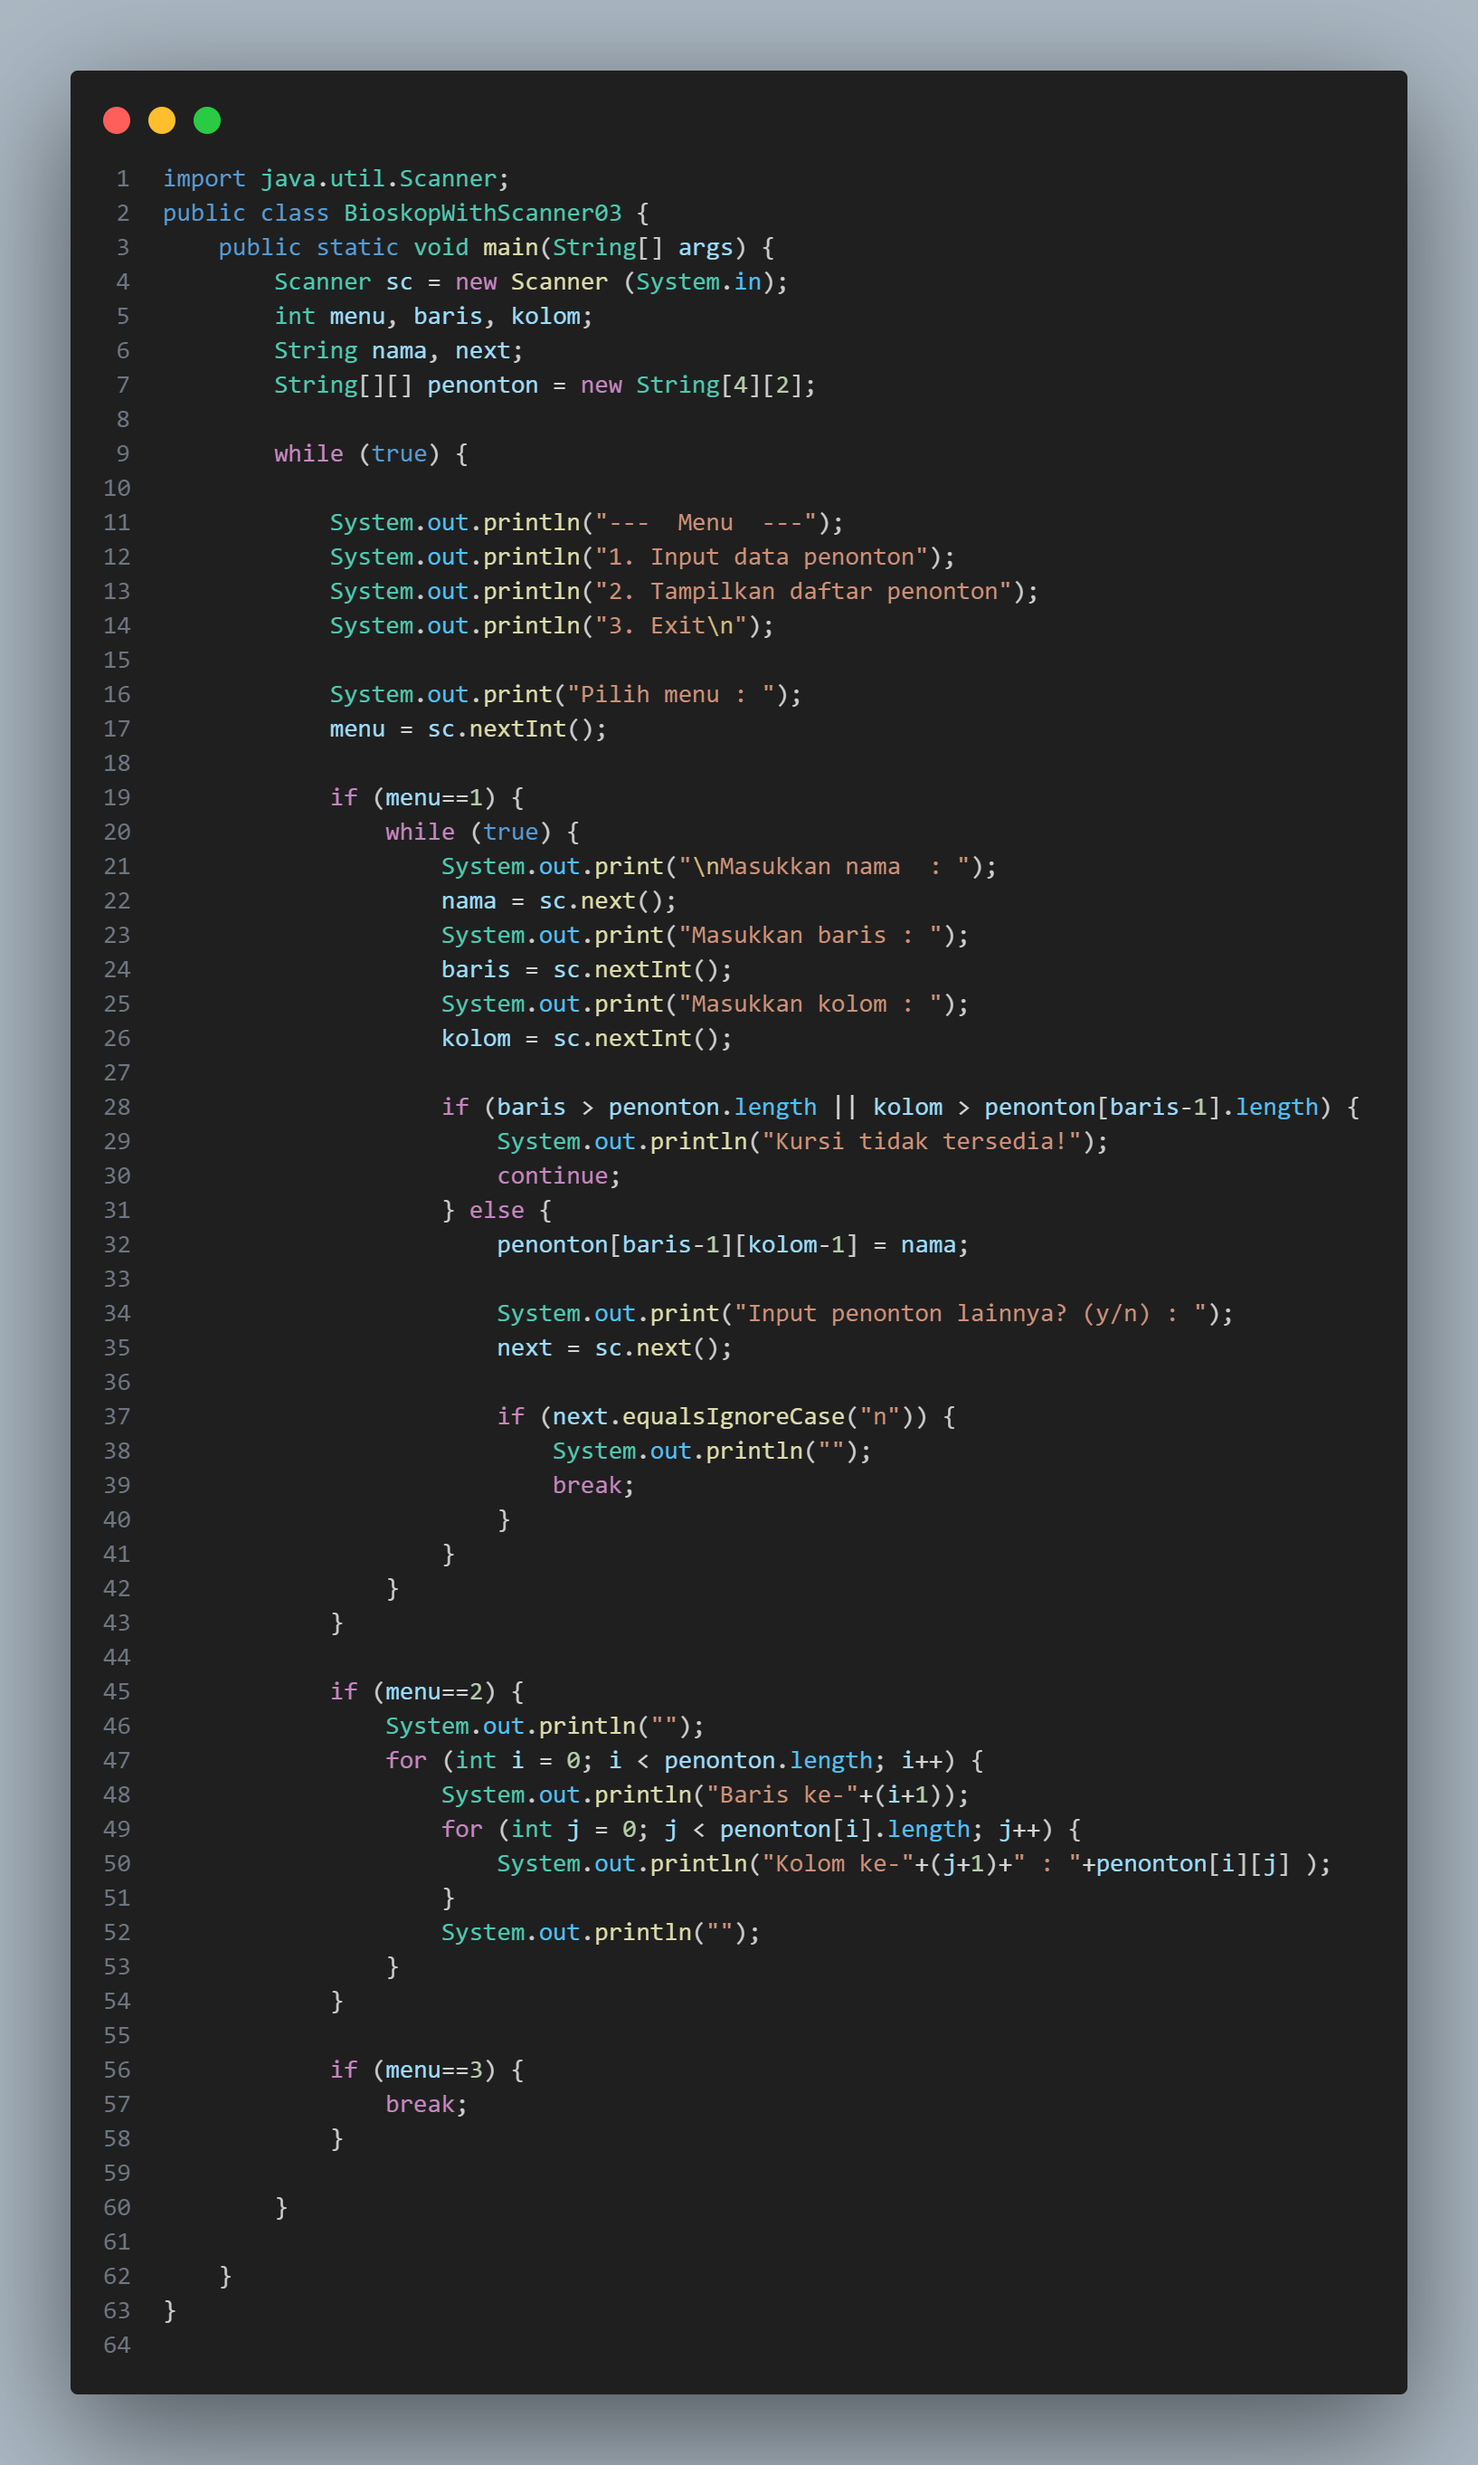
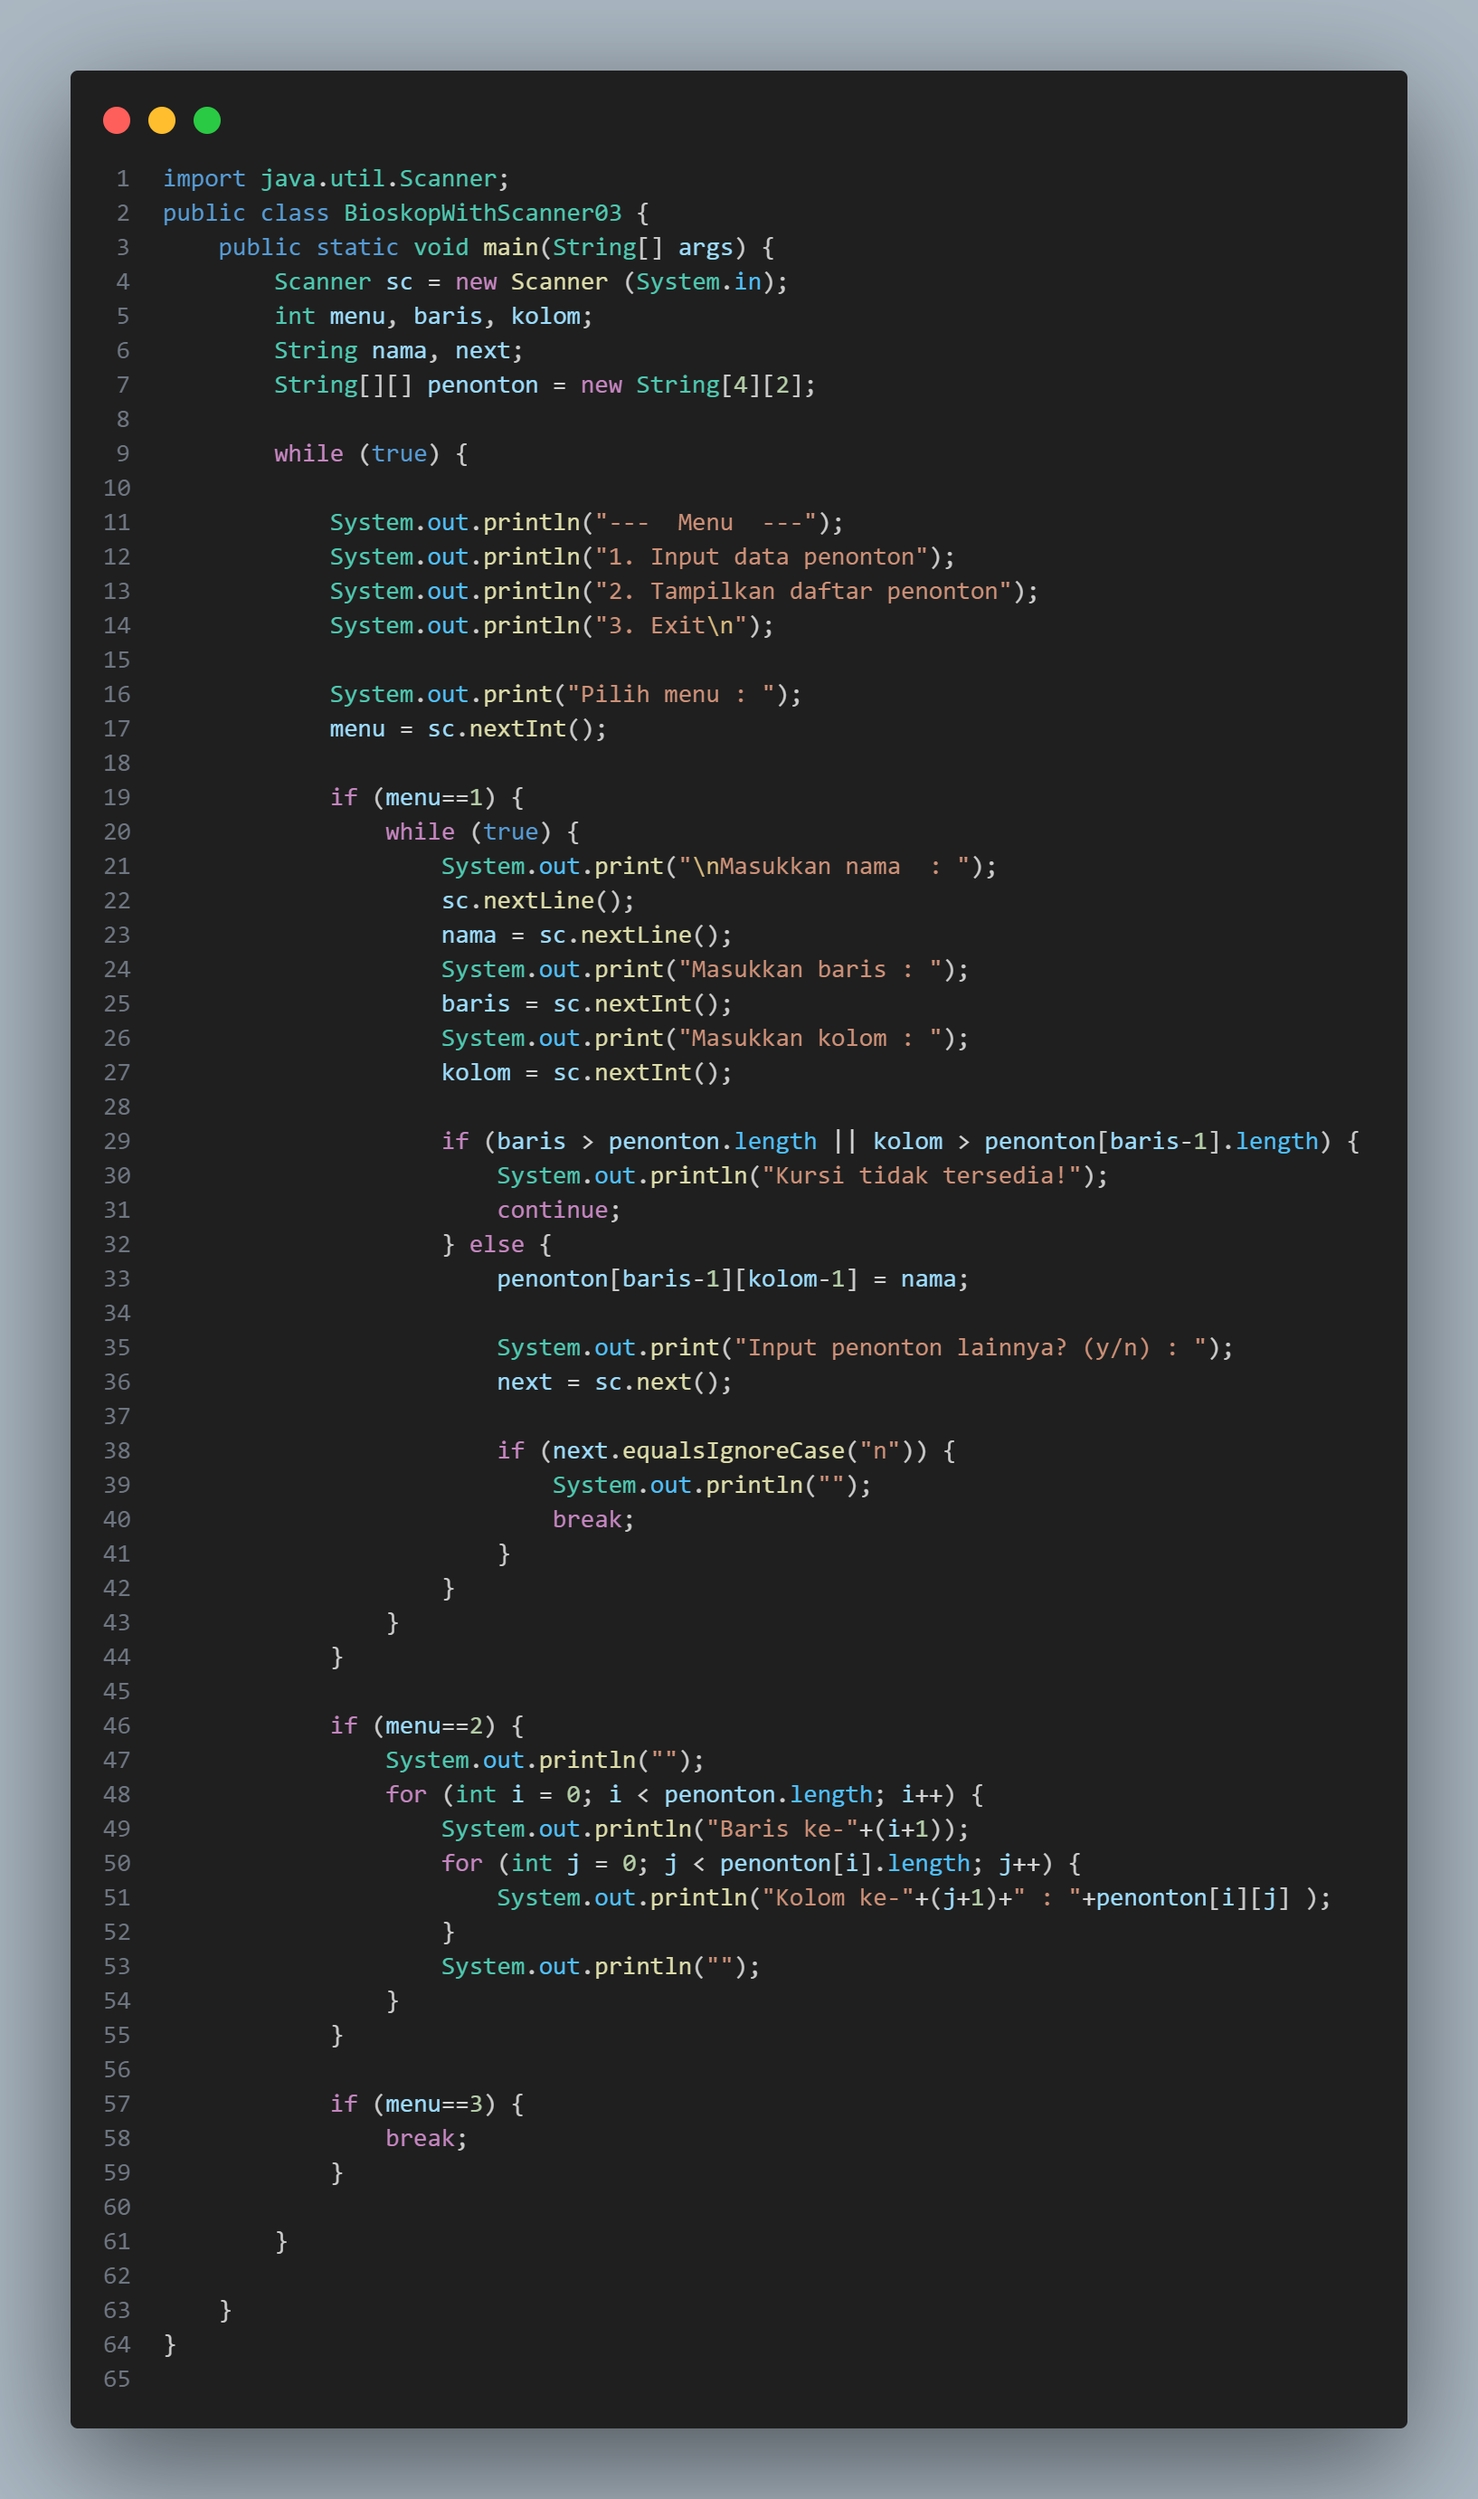
modify

diff --git a/Semester 1/Praktikum Daspro/Week 10/BioskopWithScanner03.java b/Semester 1/Praktikum Daspro/Week 10/BioskopWithScanner03.java
@@ -19,7 +19,8 @@ public class BioskopWithScanner03 {
             if (menu==1) {
                 while (true) {
                     System.out.print("\nMasukkan nama  : ");
-                    nama = sc.next();
+                    sc.nextLine();
+                    nama = sc.nextLine();
                     System.out.print("Masukkan baris : ");
                     baris = sc.nextInt();
                     System.out.print("Masukkan kolom : ");
